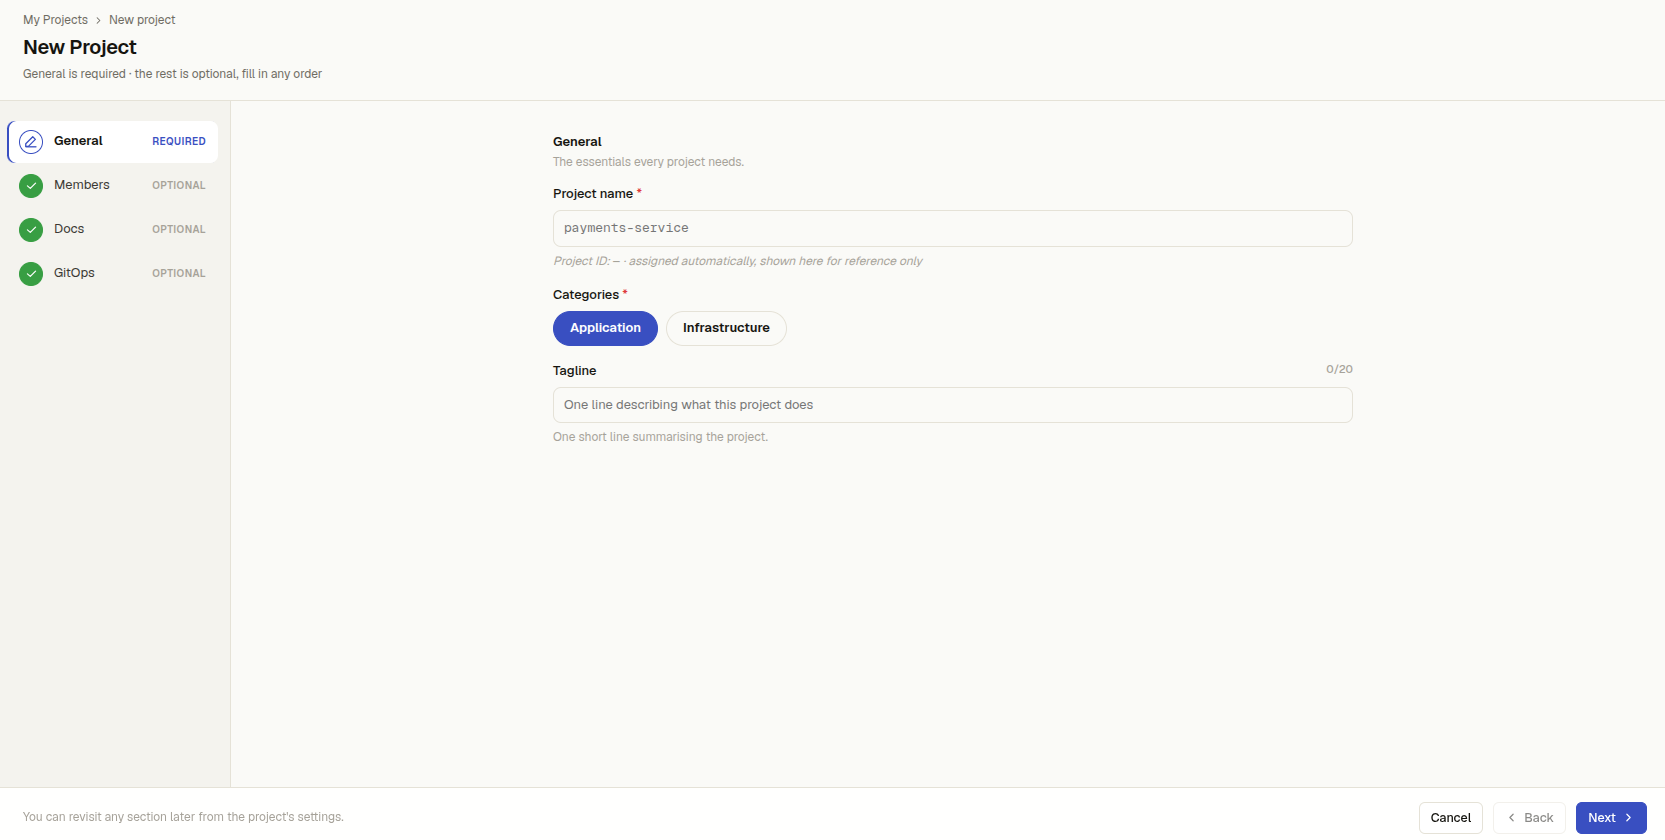
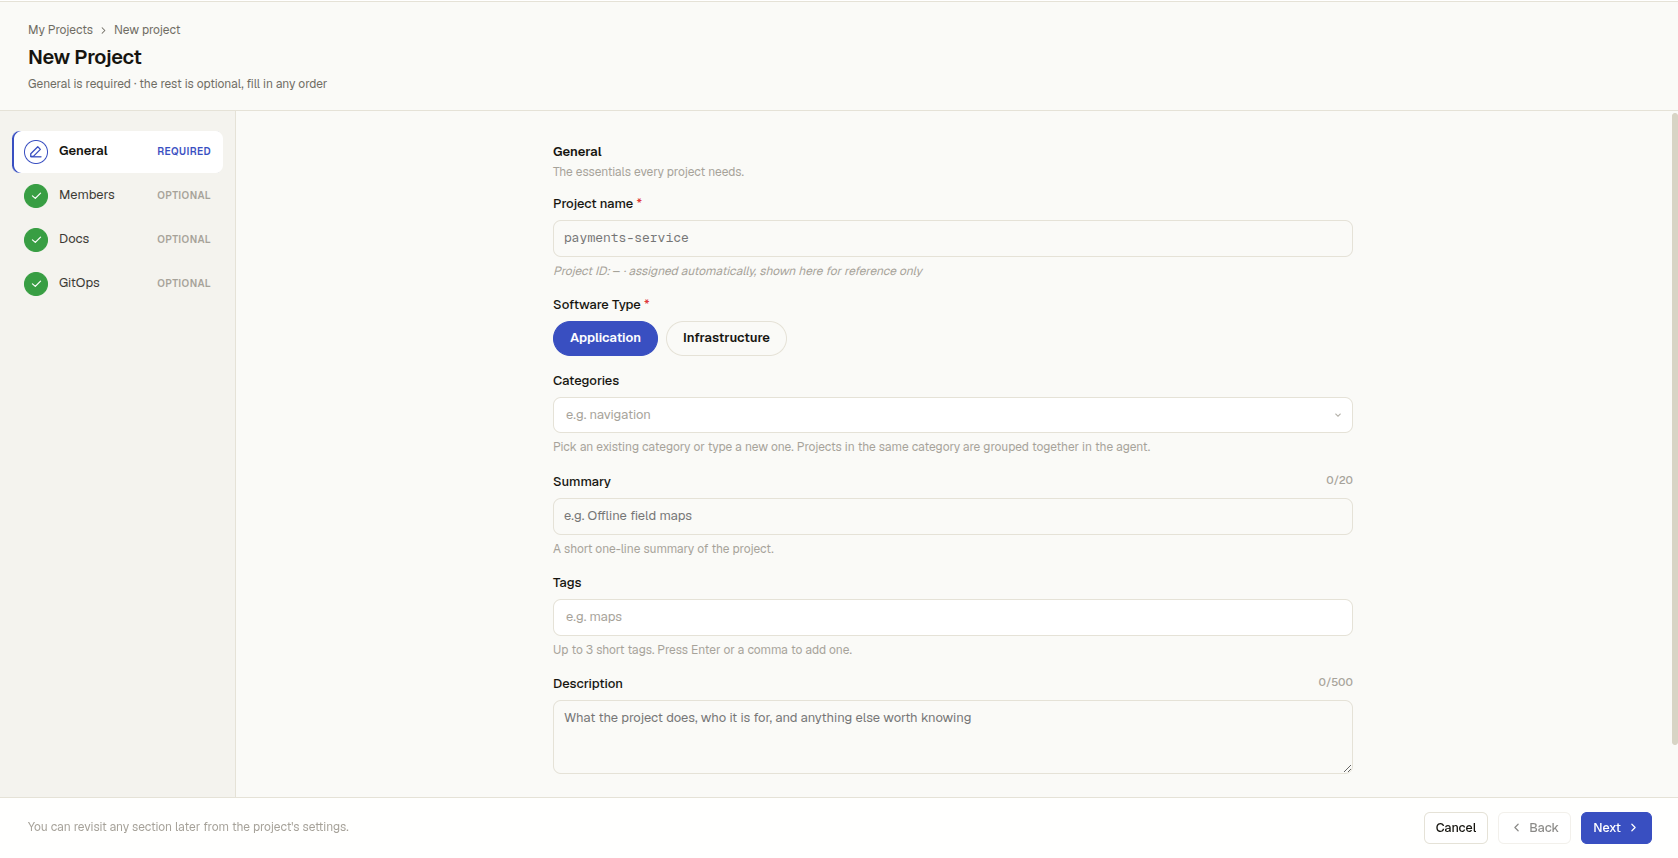
docs(project): refresh New Project wizard docs
New wizard screenshot; Create Project lives on the last step; 'software types' wording; documented permission bounce, empty docs, invalid-General jump and name conflict; wizard and Settings offer only Application/Infrastructure; GitOps section for GetApp Pro (legacy Dashboard kept); CONFIG_MAP creation note in GetConfig.

diff --git a/docs/root/user-docs/developer/project/new-project.md b/docs/root/user-docs/developer/project/new-project.md
@@ -10,7 +10,8 @@ sidebar_position: 3
 Create a new [project](./project-overview).
 
 **Permission level:** Developer portal access, plus the project-create permission (users
-without it don't see this entry at all)
+without it don't see this entry at all; opening the page by its URL shows *You don't have
+permission to create projects* and returns you to My Projects)
 
 ## Where it lives
 
@@ -20,10 +21,12 @@ without it don't see this entry at all)
 
 New Project is a wizard with a step rail down the left. Only **General** is required —
 **Members**, **Docs**, and **GitOps** are optional, and you can fill them in any order or skip
-them entirely. **Create Project** is available from any step, and you can revisit everything
-later from the project's [Settings](./project-detail#settings).
+them entirely. Every step has **Next**; on the last step (**GitOps**) it becomes
+**Create Project**. Click a step in the rail to jump straight to it, so you can go from General
+to the last step and create the project without visiting the optional ones. You can revisit
+everything later from the project's [Settings](./project-detail#settings).
 
-![New Project wizard — a left step rail with General (required) plus Members, Docs, and GitOps (optional), showing the General step: a Project name field "payments-service" with the auto-assigned Project ID below it, Application/Infrastructure software type chips with Application selected, and a Tags field](/img/manual/project/new-project-form.png)
+![New Project wizard — a left step rail with General (required) plus Members, Docs, and GitOps (optional), showing the General step: a Project name field with the auto-assigned Project ID line below it, Software Type chips Application (selected) and Infrastructure, a Categories picker, Summary (0/20), Tags, and Description (0/500), with Cancel, Back, and Next in the footer](/img/manual/project/new-project-form.png)
 
 | Step | Required? | What it's for |
 |---|---|---|
@@ -88,7 +91,9 @@ no match. The people you add are staged here and invited the moment the project 
 ## Docs
 
 Write documentation that lives with the project. Add one or more docs, each a **title** and a
-**Markdown** body. Like members, docs are staged here and created once the project exists.
+**Markdown** body. Like members, docs are staged here and created once the project exists. A
+doc left with neither a title nor a body is skipped; one with a body but no title is saved as
+*Untitled doc*.
 
 ## GitOps
 
@@ -105,9 +110,13 @@ authored by hand. Leave the clone URL empty to skip GitOps entirely.
 
 ## After creating
 
-Create Project is reachable from any step once General is valid. On success you land on the new
-project's [Releases tab](./project-detail#releases), ready to publish its first
-[release](../release/release-overview).
+**Create Project** is on the last step; reach it with **Next** or by clicking it in the rail.
+On success you land on the new project's [Releases tab](./project-detail#releases), ready to
+publish its first [release](../release/release-overview).
+
+If a General field is invalid when you click **Create Project**, the wizard jumps back to
+**General** to show the error. If the name is already taken, the **Project name** field shows
+*That name is already in use — project names must be unique.*
 
 Members and docs are applied as a best-effort follow-up: if one can't be saved, the project is
 still created and you get a warning rather than a failure — add the missing member or doc later
@@ -115,10 +124,11 @@ from [Project Detail](./project-detail).
 
 ## Customizing the form
 
-The fields, their order, and which categories appear as chips are driven by a per-deployment
-layout. An administrator can tailor the create-project form for an environment — relabel
-fields, reorder them, or re-add the other categories — without changing the application. This
-is an optional deployment-level override; out of the box you get the form described above.
+The fields, their order, and which software types appear as chips are driven by a
+per-deployment layout. An administrator can tailor the create-project form for an environment —
+relabel fields, reorder them, or re-add the other software types (such as Library or Config
+map) — without changing the application. This is an optional deployment-level override; out of
+the box you get the form described above.
 
 ### Required or optional fields
 

diff --git a/docs/root/technician/server/gitops-section/gitops.md b/docs/root/technician/server/gitops-section/gitops.md
@@ -27,13 +27,40 @@ Both modes follow the same flow:
 
 ---
 
-## Configuring GitOps in the Dashboard
+## Configuring GitOps in GetApp Pro
+
+### New project
+
+GitOps is the optional **GitOps** step of the
+[New Project](../../../user-docs/developer/project/new-project.md#gitops) wizard. Leave the
+clone URL empty to skip it.
+
+### Existing project
+
+Open the project's **Settings** tab, fill in the **GitOps** card, and click **Save Git settings**.
+
+### Available fields
+
+| Field | Description |
+|---|---|
+| **Git clone URL** | HTTPS or SSH URL of the repository to clone |
+| **Branch** | Branch to clone. Defaults to the repository's default branch if left empty. |
+| **Clone interval (min)** | How often GetApp polls the repository. Defaults to 60. |
+| **HTTPS username** | Username for a private repository |
+| **HTTPS password / token** | Password or personal access token. On an existing project, leave blank to keep the stored one. |
+| **.getapp file path** | Path to the `.getapp` file within the repository. Defaults to `.getapp` in the repository root. |
+
+GetApp Pro authenticates with HTTPS credentials only and doesn't show the webhook URL. For SSH
+key authentication or to read the webhook URL, use the legacy Dashboard (below) or the API
+(`gitSshKey`, `gitWebhookUrl`).
+
+## Configuring GitOps in the legacy Dashboard
 
 GitOps settings are available under **Advanced Settings → GitOps** when creating or editing a project.
 
 ### New project
 
-When creating a project, fill in the GitOps fields are display under the advanced settings section:
+When creating a project, fill in the GitOps fields under the Advanced Settings section:
 
 ![GitOps settings panel — create state](/img/gitops_settings.png)
 

diff --git a/docs/root/technician/agent/configurations/getconfig.md b/docs/root/technician/agent/configurations/getconfig.md
@@ -235,9 +235,13 @@ ConfigMaps allow you to define shared configuration that can be inherited by mul
 
 #### Creating a ConfigMap Project
 
-1. Navigate to **Projects** > **Create Project**
-2. Select project type **CONFIG_MAP**
-3. Define your shared configuration groups
+1. Create a project of type **CONFIG_MAP**. The GetApp Pro
+   [New Project](../../../user-docs/developer/project/new-project.md) wizard offers only
+   Application and Infrastructure by default, so either use the legacy Dashboard
+   (**Projects** > **Create Project**, type **CONFIG_MAP**) or have an administrator add
+   **Config map** to the wizard with a
+   [layout override](../../../user-docs/developer/project/new-project.md#customizing-the-form)
+2. Define your shared configuration groups
 
 ![Screenshot: Creating a ConfigMap project](/img/placeholder_configmap_create.png)
 

diff --git a/docs/root/user-docs/developer/project/overview.md b/docs/root/user-docs/developer/project/overview.md
@@ -24,10 +24,11 @@ permission specifically.
 | `config` | A CONFIG project — see [ConfigMap](../../admin/catalog/configmap) |
 | `config_map` | A ConfigMap project |
 
-The [New Project](./new-project#software-type) wizard offers **Application** and
-**Infrastructure** as chips by default; the other types are set afterwards from a project's
-[Settings](./project-detail#settings) (or re-added to the create form by a deployment
-override).
+The [New Project](./new-project#software-type) wizard and a project's
+[Settings](./project-detail#settings) offer only **Application** and **Infrastructure**. The
+other types can be re-added to the create form by a
+[deployment override](./new-project#customizing-the-form); the legacy Dashboard can also create
+`lib`, `bundle`, and `config_map` projects.
 
 ## What a project owns
 
